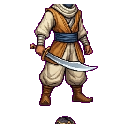
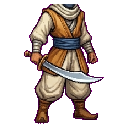
v62: Ocultar armaduras procedurales sobre el cuerpo y corregir recorte 3x5 e iconos de bando/sexo

diff --git a/public/js/game/assetLoader.js b/public/js/game/assetLoader.js
@@ -1220,183 +1220,185 @@ export function processGrid3x5SpriteSheet(img, threshold = 230) {
       let head = 0;
       let tail = 0;
 
-      // 1. Detectar líneas divisorias negras/grises desplazadas dentro del margen exterior (hasta 16% X / 14% Y)
-      let effLeftPad = borderPadX;
-      let effRightPad = borderPadX;
-      let effTopPad = borderPadY;
-      let effBottomPad = borderPadY;
+      // 1. Detectar líneas divisorias negras/grises desplazadas y limpiar fondo blanco solo si la hoja no tiene transparencia nativa
+      let effLeftPad = hasNativeTransparency ? 0 : borderPadX;
+      let effRightPad = hasNativeTransparency ? 0 : borderPadX;
+      let effTopPad = hasNativeTransparency ? 0 : borderPadY;
+      let effBottomPad = hasNativeTransparency ? 0 : borderPadY;
 
-      for (let x = 0; x < maxGridMarginX; x++) {
-        let darkCount = 0;
-        for (let y = 0; y < cellH; y++) {
-          const p = (y * cellW + x) * 4;
-          if (d[p + 3] > 40 && (d[p] + d[p + 1] + d[p + 2]) / 3 < 135) darkCount++;
-        }
-        if (darkCount > cellH * 0.42) effLeftPad = Math.max(effLeftPad, x + 2);
-      }
-      for (let x = cellW - 1; x >= cellW - maxGridMarginX; x--) {
-        let darkCount = 0;
-        for (let y = 0; y < cellH; y++) {
-          const p = (y * cellW + x) * 4;
-          if (d[p + 3] > 40 && (d[p] + d[p + 1] + d[p + 2]) / 3 < 135) darkCount++;
-        }
-        if (darkCount > cellH * 0.42) effRightPad = Math.max(effRightPad, cellW - x + 1);
-      }
-      for (let y = 0; y < maxGridMarginY; y++) {
-        let darkCount = 0;
-        for (let x = 0; x < cellW; x++) {
-          const p = (y * cellW + x) * 4;
-          if (d[p + 3] > 40 && (d[p] + d[p + 1] + d[p + 2]) / 3 < 135) darkCount++;
-        }
-        if (darkCount > cellW * 0.42) effTopPad = Math.max(effTopPad, y + 2);
-      }
-      for (let y = cellH - 1; y >= cellH - maxGridMarginY; y--) {
-        let darkCount = 0;
-        for (let x = 0; x < cellW; x++) {
-          const p = (y * cellW + x) * 4;
-          if (d[p + 3] > 40 && (d[p] + d[p + 1] + d[p + 2]) / 3 < 135) darkCount++;
-        }
-        if (darkCount > cellW * 0.42) effBottomPad = Math.max(effBottomPad, cellH - y + 1);
-      }
-
-      // Limpiar franja de líneas divisorias en los 4 bordes de la celda
-      for (let y = 0; y < cellH; y++) {
-        for (let x = 0; x < cellW; x++) {
-          if (x < effLeftPad || x >= cellW - effRightPad || y < effTopPad || y >= cellH - effBottomPad) {
-            d[(y * cellW + x) * 4 + 3] = 0;
+      if (!hasNativeTransparency) {
+        for (let x = 0; x < maxGridMarginX; x++) {
+          let darkCount = 0;
+          for (let y = 0; y < cellH; y++) {
+            const p = (y * cellW + x) * 4;
+            if (d[p + 3] > 40 && (d[p] + d[p + 1] + d[p + 2]) / 3 < 135) darkCount++;
           }
+          if (darkCount > cellH * 0.42) effLeftPad = Math.max(effLeftPad, x + 2);
         }
-      }
-
-      const isExteriorWhite = (idx) => {
-        const p = idx * 4;
-        if (d[p + 3] === 0) return true;
-        const r = d[p];
-        const g = d[p + 1];
-        const b = d[p + 2];
-        return r > threshold && g > threshold && b > threshold &&
-          Math.abs(r - g) <= 20 && Math.abs(g - b) <= 20;
-      };
-
-      const enqueue = (x, y) => {
-        if (x < 0 || x >= cellW || y < 0 || y >= cellH) return;
-        const idx = y * cellW + x;
-        if (visited[idx]) return;
-        if (isExteriorWhite(idx)) {
-          visited[idx] = 1;
-          q[tail++] = idx;
-        }
-      };
-
-      for (let x = 0; x < cellW; x++) {
-        enqueue(x, effTopPad);
-        enqueue(x, cellH - 1 - effBottomPad);
-      }
-      for (let y = 0; y < cellH; y++) {
-        enqueue(effLeftPad, y);
-        enqueue(cellW - 1 - effRightPad, y);
-      }
-
-      while (head < tail) {
-        const idx = q[head++];
-        d[idx * 4 + 3] = 0;
-        const x = idx % cellW;
-        const y = (idx - x) / cellW;
-        if (x > 0) enqueue(x - 1, y);
-        if (x < cellW - 1) enqueue(x + 1, y);
-        if (y > 0) enqueue(x, y - 1);
-        if (y < cellH - 1) enqueue(x, y + 1);
-      }
-
-      // Limpiar huecos blancos internos cerrados (ej. entre piernas al caminar de lado o entre brazos y torso)
-      const isStrictPureWhite = (idx) => {
-        const p = idx * 4;
-        if (d[p + 3] === 0) return false;
-        const r = d[p];
-        const g = d[p + 1];
-        const b = d[p + 2];
-        return (
-          r > 236 &&
-          g > 236 &&
-          b > 236 &&
-          Math.abs(r - g) <= 14 &&
-          Math.abs(g - b) <= 14 &&
-          Math.abs(r - b) <= 14
-        );
-      };
-
-      const innerVisited = new Uint8Array(total);
-      for (let y = borderPadY; y < cellH - borderPadY; y++) {
-        for (let x = borderPadX; x < cellW - borderPadX; x++) {
-          const startIdx = y * cellW + x;
-          if (visited[startIdx] || innerVisited[startIdx] || !isStrictPureWhite(startIdx)) continue;
-
-          const compPixels = [];
-          const cq = [startIdx];
-          innerVisited[startIdx] = 1;
-          let touchesOutline = false;
-
-          while (cq.length > 0) {
-            const cIdx = cq.pop();
-            compPixels.push(cIdx);
-            const cx = cIdx % cellW;
-            const cy = (cIdx - cx) / cellW;
-            const neighbors = [];
-            if (cx > 0) neighbors.push(cIdx - 1);
-            if (cx < cellW - 1) neighbors.push(cIdx + 1);
-            if (cy > 0) neighbors.push(cIdx - cellW);
-            if (cy < cellH - 1) neighbors.push(cIdx + cellW);
-
-            for (let n = 0; n < neighbors.length; n++) {
-              const nIdx = neighbors[n];
-              const np = nIdx * 4;
-              if (d[np + 3] === 0) {
-                touchesOutline = true;
-                continue;
-              }
-              const nr = d[np];
-              const ng = d[np + 1];
-              const nb = d[np + 2];
-              const luma = (nr + ng + nb) / 3;
-              if (luma < 175) touchesOutline = true;
-              if (!visited[nIdx] && !innerVisited[nIdx] && isStrictPureWhite(nIdx)) {
-                innerVisited[nIdx] = 1;
-                cq.push(nIdx);
-              }
-            }
+        for (let x = cellW - 1; x >= cellW - maxGridMarginX; x--) {
+          let darkCount = 0;
+          for (let y = 0; y < cellH; y++) {
+            const p = (y * cellW + x) * 4;
+            if (d[p + 3] > 40 && (d[p] + d[p + 1] + d[p + 2]) / 3 < 135) darkCount++;
           }
+          if (darkCount > cellH * 0.42) effRightPad = Math.max(effRightPad, cellW - x + 1);
+        }
+        for (let y = 0; y < maxGridMarginY; y++) {
+          let darkCount = 0;
+          for (let x = 0; x < cellW; x++) {
+            const p = (y * cellW + x) * 4;
+            if (d[p + 3] > 40 && (d[p] + d[p + 1] + d[p + 2]) / 3 < 135) darkCount++;
+          }
+          if (darkCount > cellW * 0.42) effTopPad = Math.max(effTopPad, y + 2);
+        }
+        for (let y = cellH - 1; y >= cellH - maxGridMarginY; y--) {
+          let darkCount = 0;
+          for (let x = 0; x < cellW; x++) {
+            const p = (y * cellW + x) * 4;
+            if (d[p + 3] > 40 && (d[p] + d[p + 1] + d[p + 2]) / 3 < 135) darkCount++;
+          }
+          if (darkCount > cellW * 0.42) effBottomPad = Math.max(effBottomPad, cellH - y + 1);
+        }
 
-          if (compPixels.length >= 4 && touchesOutline) {
-            for (let k = 0; k < compPixels.length; k++) {
-              d[compPixels[k] * 4 + 3] = 0;
+        // Limpiar franja de líneas divisorias en los 4 bordes de la celda
+        for (let y = 0; y < cellH; y++) {
+          for (let x = 0; x < cellW; x++) {
+            if (x < effLeftPad || x >= cellW - effRightPad || y < effTopPad || y >= cellH - effBottomPad) {
+              d[(y * cellW + x) * 4 + 3] = 0;
             }
           }
         }
-      }
 
-      // Suavizado de halo blanco residual en bordes (2 pasadas)
-      for (let pass = 0; pass < 2; pass++) {
-        const toClear = [];
+        const isExteriorWhite = (idx) => {
+          const p = idx * 4;
+          if (d[p + 3] === 0) return true;
+          const r = d[p];
+          const g = d[p + 1];
+          const b = d[p + 2];
+          return r > threshold && g > threshold && b > threshold &&
+            Math.abs(r - g) <= 20 && Math.abs(g - b) <= 20;
+        };
+
+        const enqueue = (x, y) => {
+          if (x < 0 || x >= cellW || y < 0 || y >= cellH) return;
+          const idx = y * cellW + x;
+          if (visited[idx]) return;
+          if (isExteriorWhite(idx)) {
+            visited[idx] = 1;
+            q[tail++] = idx;
+          }
+        };
+
+        for (let x = 0; x < cellW; x++) {
+          enqueue(x, effTopPad);
+          enqueue(x, cellH - 1 - effBottomPad);
+        }
+        for (let y = 0; y < cellH; y++) {
+          enqueue(effLeftPad, y);
+          enqueue(cellW - 1 - effRightPad, y);
+        }
+
+        while (head < tail) {
+          const idx = q[head++];
+          d[idx * 4 + 3] = 0;
+          const x = idx % cellW;
+          const y = (idx - x) / cellW;
+          if (x > 0) enqueue(x - 1, y);
+          if (x < cellW - 1) enqueue(x + 1, y);
+          if (y > 0) enqueue(x, y - 1);
+          if (y < cellH - 1) enqueue(x, y + 1);
+        }
+
+        // Limpiar huecos blancos internos cerrados (ej. entre piernas al caminar de lado o entre brazos y torso)
+        const isStrictPureWhite = (idx) => {
+          const p = idx * 4;
+          if (d[p + 3] === 0) return false;
+          const r = d[p];
+          const g = d[p + 1];
+          const b = d[p + 2];
+          return (
+            r > 236 &&
+            g > 236 &&
+            b > 236 &&
+            Math.abs(r - g) <= 14 &&
+            Math.abs(g - b) <= 14 &&
+            Math.abs(r - b) <= 14
+          );
+        };
+
+        const innerVisited = new Uint8Array(total);
         for (let y = borderPadY; y < cellH - borderPadY; y++) {
           for (let x = borderPadX; x < cellW - borderPadX; x++) {
-            const idx = y * cellW + x;
-            const p = idx * 4;
-            if (d[p + 3] === 0) continue;
-            const r = d[p];
-            const g = d[p + 1];
-            const b = d[p + 2];
-            if (r > 208 && g > 208 && b > 208 && Math.abs(r - g) <= 18 && Math.abs(g - b) <= 18) {
-              const hasTransparentNeighbor =
-                d[(idx - 1) * 4 + 3] === 0 ||
-                d[(idx + 1) * 4 + 3] === 0 ||
-                d[(idx - cellW) * 4 + 3] === 0 ||
-                d[(idx + cellW) * 4 + 3] === 0;
-              if (hasTransparentNeighbor) toClear.push(p);
+            const startIdx = y * cellW + x;
+            if (visited[startIdx] || innerVisited[startIdx] || !isStrictPureWhite(startIdx)) continue;
+
+            const compPixels = [];
+            const cq = [startIdx];
+            innerVisited[startIdx] = 1;
+            let touchesOutline = false;
+
+            while (cq.length > 0) {
+              const cIdx = cq.pop();
+              compPixels.push(cIdx);
+              const cx = cIdx % cellW;
+              const cy = (cIdx - cx) / cellW;
+              const neighbors = [];
+              if (cx > 0) neighbors.push(cIdx - 1);
+              if (cx < cellW - 1) neighbors.push(cIdx + 1);
+              if (cy > 0) neighbors.push(cIdx - cellW);
+              if (cy < cellH - 1) neighbors.push(cIdx + cellW);
+
+              for (let n = 0; n < neighbors.length; n++) {
+                const nIdx = neighbors[n];
+                const np = nIdx * 4;
+                if (d[np + 3] === 0) {
+                  touchesOutline = true;
+                  continue;
+                }
+                const nr = d[np];
+                const ng = d[np + 1];
+                const nb = d[np + 2];
+                const luma = (nr + ng + nb) / 3;
+                if (luma < 175) touchesOutline = true;
+                if (!visited[nIdx] && !innerVisited[nIdx] && isStrictPureWhite(nIdx)) {
+                  innerVisited[nIdx] = 1;
+                  cq.push(nIdx);
+                }
+              }
+            }
+
+            if (compPixels.length >= 4 && touchesOutline) {
+              for (let k = 0; k < compPixels.length; k++) {
+                d[compPixels[k] * 4 + 3] = 0;
+              }
             }
           }
         }
-        for (let k = 0; k < toClear.length; k++) {
-          d[toClear[k] + 3] = 0;
+
+        // Suavizado de halo blanco residual en bordes (2 pasadas)
+        for (let pass = 0; pass < 2; pass++) {
+          const toClear = [];
+          for (let y = borderPadY; y < cellH - borderPadY; y++) {
+            for (let x = borderPadX; x < cellW - borderPadX; x++) {
+              const idx = y * cellW + x;
+              const p = idx * 4;
+              if (d[p + 3] === 0) continue;
+              const r = d[p];
+              const g = d[p + 1];
+              const b = d[p + 2];
+              if (r > 208 && g > 208 && b > 208 && Math.abs(r - g) <= 18 && Math.abs(g - b) <= 18) {
+                const hasTransparentNeighbor =
+                  d[(idx - 1) * 4 + 3] === 0 ||
+                  d[(idx + 1) * 4 + 3] === 0 ||
+                  d[(idx - cellW) * 4 + 3] === 0 ||
+                  d[(idx + cellW) * 4 + 3] === 0;
+                if (hasTransparentNeighbor) toClear.push(p);
+              }
+            }
+          }
+          for (let k = 0; k < toClear.length; k++) {
+            d[toClear[k] + 3] = 0;
+          }
         }
       }
 

diff --git a/public/index.html b/public/index.html
@@ -21,7 +21,7 @@
   <link rel="preconnect" href="https://fonts.googleapis.com" />
   <link rel="preconnect" href="https://fonts.gstatic.com" crossorigin />
   <link href="https://fonts.googleapis.com/css2?family=Inter:wght@400;500;600;700&family=Pixelify+Sans:wght@600;700&display=swap" rel="stylesheet" />
-  <link rel="stylesheet" href="./css/styles.css?v=61" />
+  <link rel="stylesheet" href="./css/styles.css?v=62" />
 </head>
 <body>
   <!-- Barra superior metálica para pantallas fuera del mapa -->
@@ -610,7 +610,7 @@
   <script>
     // Purga automática de cachés antiguas sin provocar doble recarga tras iniciar el juego
     (function () {
-      var CURRENT_VER = 'cronicas-fractura-v61';
+      var CURRENT_VER = 'cronicas-fractura-v62';
       try {
         var storedVer = localStorage.getItem('valoria_app_ver');
         if (storedVer !== CURRENT_VER) {
@@ -626,7 +626,7 @@
       } catch (e) {}
     })();
   </script>
-  <script type="module" src="./js/app.js?v=61"></script>
-  <script src="./js/wow-actionbar.js?v=61"></script>
+  <script type="module" src="./js/app.js?v=62"></script>
+  <script src="./js/wow-actionbar.js?v=62"></script>
 </body>
 </html>

diff --git a/public/sw.js b/public/sw.js
@@ -1,4 +1,4 @@
-const CACHE_NAME = 'cronicas-fractura-v61';
+const CACHE_NAME = 'cronicas-fractura-v62';
 const APP_ASSETS = [
   './',
   './index.html',
